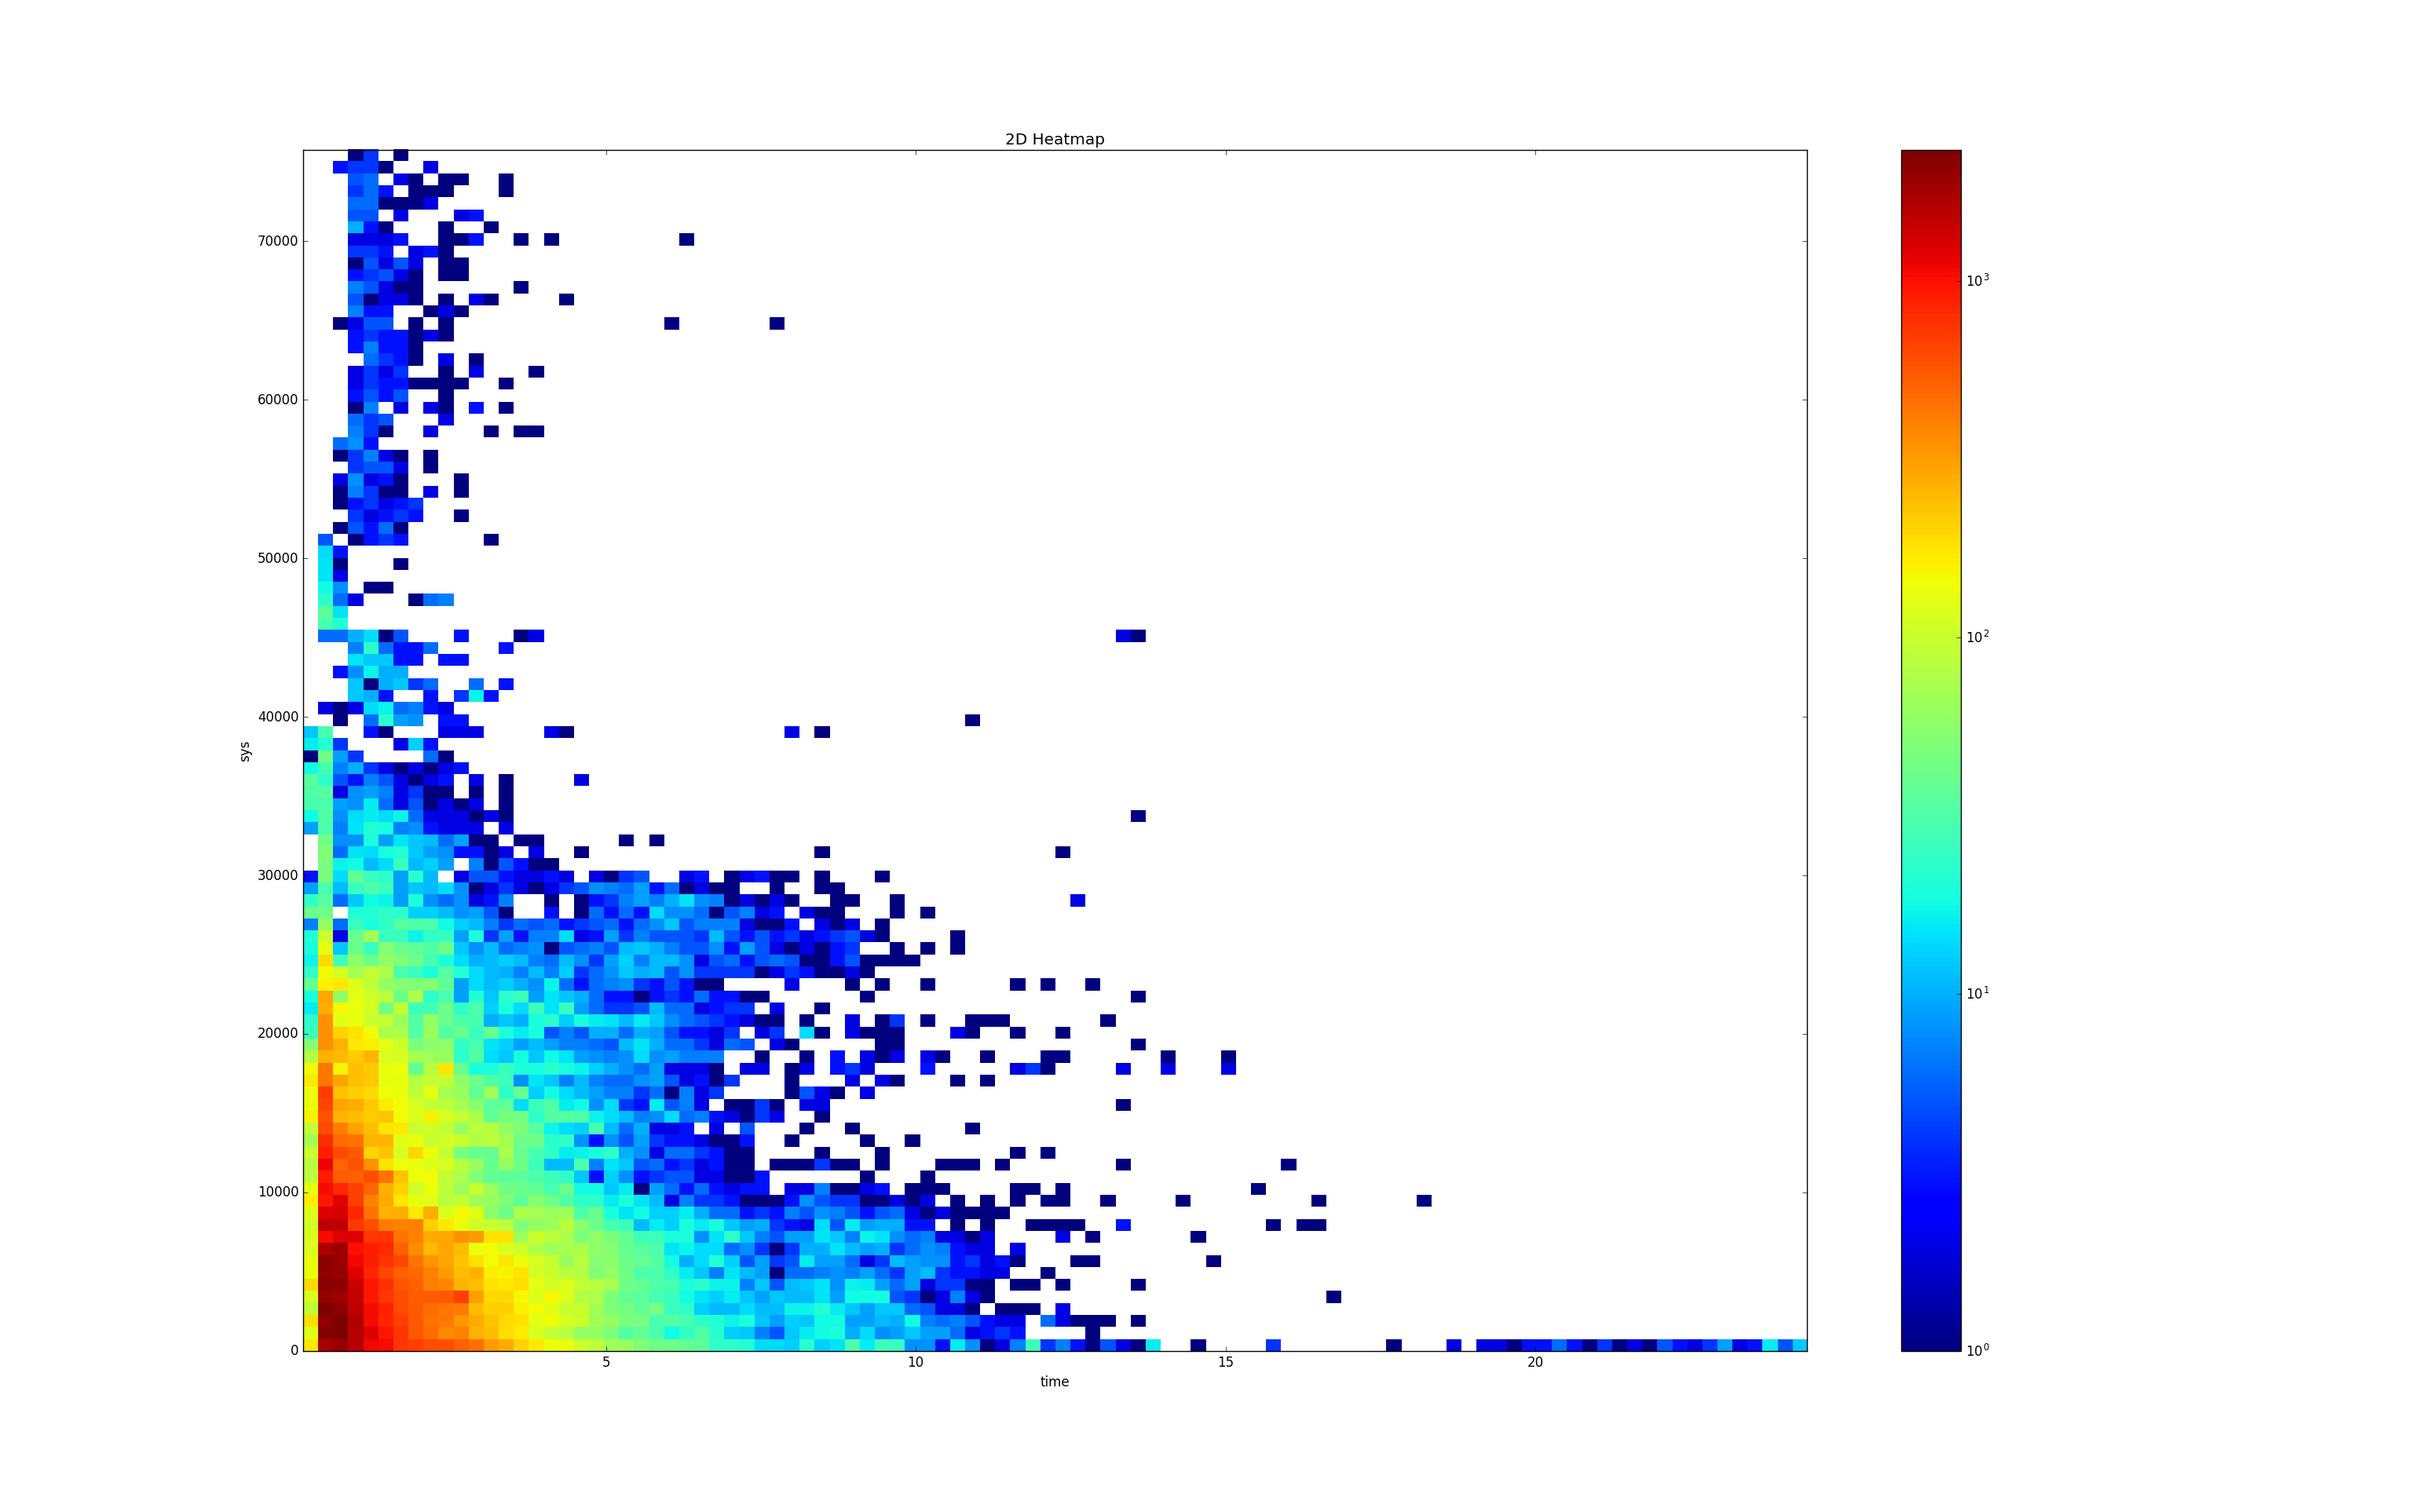
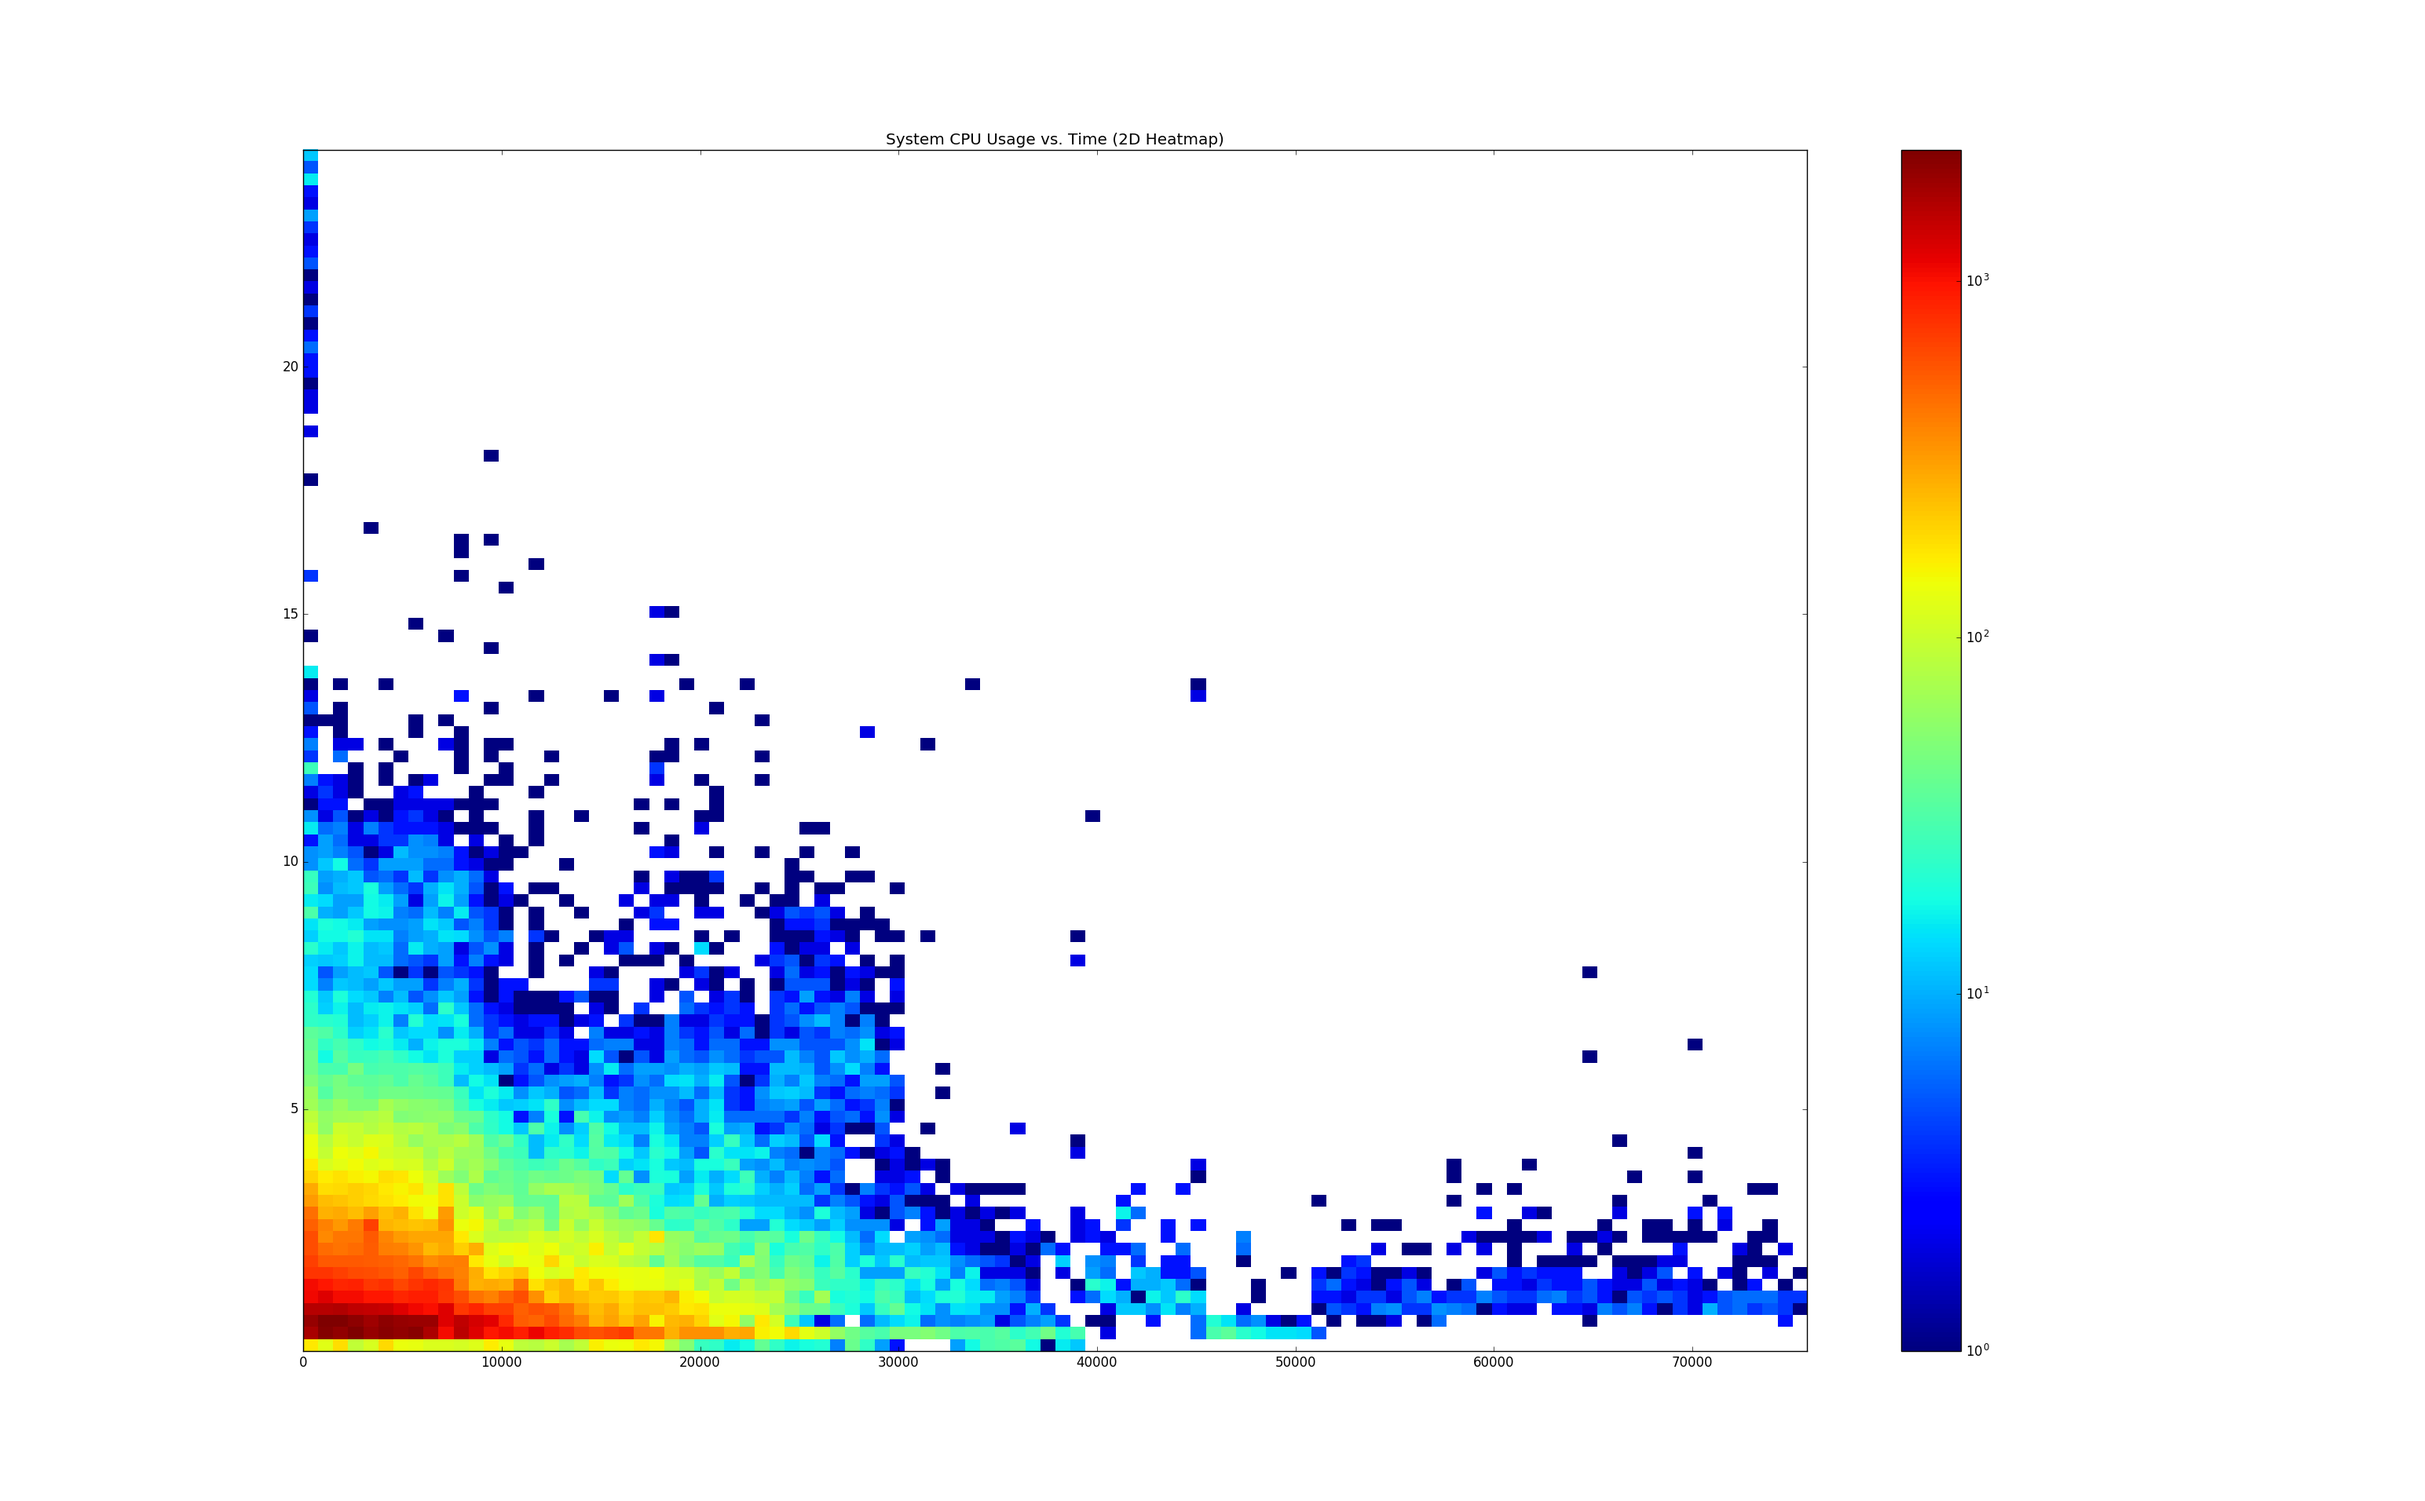
updated plotter to plot Profiles, updated plotter interface accordingly

Changed region(s): [[0.1244, 0.0926, 0.7461, 0.9257], [0.2487, 0.432, 0.3109, 0.4629], [0.4352, 0.6172, 0.4663, 0.648]]

diff --git a/PlotterInterface.py b/PlotterInterface.py
@@ -1,4 +1,3 @@
-#Other imports
 import LogParser as lp
 import Plotter as plotter
 
@@ -49,28 +48,38 @@ def write_path_memory(fpath, ftype):
     return
 
 def get_plot_param(param):
+    eToggle = None
+
     counter = 0
     for p in param:
         if "\"" in p:
             p = p.split("\"")[1]
         else:
-            if p == "Bins":
+            if p == "Errorbar":
                 try:
                     nextP = param[counter + 1]
                     if ")" in nextP:
                         nextP = nextP.split(")")[0]
-                    bins = int(nextP)
+                    eToggle = nextP.split("\"")[1]
+                    if eToggle == "on":
+                        eToggle = None
+                    elif eToggle == "off":
+                        eToggle = 0
+                    else:
+                        print("Error: \"Errorbar\" only takes argument \"on\" or \"off\"")
                     counter += 1
                 except IndexError:
-                    print("Error: expected argument after \"Bins\"")
+                    print("Error: expected argument after \"Errorbar\"")
                     return
 
-    return pltType, bins
+    return eToggle
 
 def print_help_info():
     print("\n*    *    *    *    *    *    *    *    *    *    *    *    *    *    *    *")
     print("Plotters:")
     print("    plot->2DHist(\"xkey\", \"ykey\")")
+    print("    plot->HeatProfile(\"xkey\", \"ykey\"")
+    print("    plot->Profile(\"xkey\", \"ykey\", \"Errorbar\", \"on/off\" (default on)")
     print("    plot->1DHist(\"xkey\")")
     print("Getters:")
     print("    get->keys:")
@@ -89,6 +98,8 @@ def plot_interface_intrp(funct, param, logObjPile):
     Custom functions:
         Plotters:
             plot->2DHist("xkey", "ykey")
+            plot->HeatProfile("xkey", "ykey")
+            plot->Profile("xkey", "ykey", "ErrorbarsDeclaration", "on/off" (default on))
             plot->1DHist("xkey")
 
         Getters:
@@ -104,18 +115,24 @@ def plot_interface_intrp(funct, param, logObjPile):
     if funct[0] == "plot":
         try:
             if funct[1] == "2DHist":
-                xdata = param[0].split("\"")[1]
-                ydata = param[1].split("\"")[1]
-                if xdata == "epoch":
-                    plotter.plot_keyvst_2DHist(logObjPile, ydata)
-                    return
-                else:
-                    plotter.plot_all_2DHist(logObjPile, xdata, ydata)
-                    return
-
+                x = param[0].split("\"")[1]
+                y = param[1].split("\"")[1]
+                plotter.plot_2DHist(logObjPile, xkey = x, ykey = y)
+                return
+            if funct[1] == "HeatProfile":
+                x = param[0].split("\"")[1]
+                y = param[1].split("\"")[1]
+                plotter.plot_Profile(logObjPile, xkey = x, ykey = y, xlabel = x, ylabel = ("Average " + y), eToggle = 0, hToggle = 0)
+                return
+            elif funct[1] == "Profile":
+                x = param[0].split("\"")[1]
+                y = param[1].split("\"")[1]
+                e = get_plot_param(param)
+                plotter.plot_Profile(logObjPile, xkey = x, ykey = y, xlabel = x, ylabel = ("Average " + y), eToggle = e)
+                return
             elif funct[1] == "1DHist":
-                xdata = param[0].split("\"")[1]
-                plotter.plot_all_1DHist(logObjPile, xdata)
+                x = param[0].split("\"")[1]
+                plotter.plot_1DHist(logObjPile, xkey = x)
                 return
         except IndexError:
             print("Error: too few arguments provided")
@@ -157,10 +174,9 @@ def custom_plot_interface(inpMark, logObjPile):
         
         if custPlot == ".q":
             return
-
         elif custPlot == "help":
             print_help_info()
-        
+
         else:
             try:
                 splitInp = custPlot.split("(")
@@ -178,8 +194,8 @@ def secondary_plot_interface(inpMark, logObjPile):
     print("\n*    *    *    *    *    *    *    *    *    *    *    *    *    *    *    *")
     print("Enter the letter of desired plot or \'custom\' for custom plot. Enter \'help\' for supported custom functions.\n")
     print("Premade Plots:")
-    plots = {"a":"User CPU Usage vs. Time (2D Heatmap)", "b":"System CPU Usage vs. Time (2D Heatmap)"}
-    orderedkeys = ["a","b"]
+    plots = {"a":"User CPU Usage vs. Time (2DHist)", "b":"System CPU Usage vs. Time (2DHist)", "c":"Idl CPU usage vs. Time (2DHist)", "d":"Average User CPU usage vs. Time (Profile)", "e":"Average System CPU Usage vs. Time (Profile)"}
+    orderedkeys = ["a","b","c", "d", "e"]
     for key in orderedkeys:
         print(key + ". " + plots[key])
     print("*    *    *    *    *    *    *    *    *    *    *    *    *    *    *    *\n")
@@ -196,9 +212,15 @@ def secondary_plot_interface(inpMark, logObjPile):
             return
         elif usrInp in plots.keys():
             if usrInp == "a":
-                plotter.plot_keyvst_Heat(logObjPile, "usr", plots["a"])
+                plotter.plot_2DHist(logObjPile, xkey = "epoch", ykey = "usr", title = plots["a"])
             elif usrInp == "b":
-                plotter.plot_keyvst_Heat(logObjPile, "sys", plots["b"])
+                plotter.plot_2DHist(logObjPile, xkey = "epoch", ykey = "sys", title = plots["b"])
+            elif usrInp == "c":
+                plotter.plot_2DHist(logObjPile, xkey = "epoch", ykey = "idl", title = plots["c"])
+            elif usrInp == "d":
+                plotter.plot_Profile(logObjPile, xkey = "epoch", ykey = "usr", title = plots["d"])
+            elif usrInp == "e":
+                plotter.plot_Profile(logObjPile, xkey = "epoch", ykey = "sys", title = plots["e"])
 
         else:
             print("Error: invalid input")

diff --git a/Plotter.py b/Plotter.py
@@ -61,7 +61,7 @@ def get_std_dev(data):
     counter = 0
     sdLst = []
     for num in data:
-        stdDev.append((float(num) - float(mean))^2)
+        sdLst.append((float(num) - float(mean))*(float(num) - float(mean)))
         counter += 1
 
     sdSum = 0
@@ -93,25 +93,18 @@ def get_data_1D(logObjPile, key):
             pass
 
     return lst
-    
 
 def get_data_2D(logObjPile, xkey, ykey):
     xLst = []
     yLst = []
-    for log in logObjPile:
-        try:
-            if xkey == "epoch":
-                xLst = get_zeroed_times(logObjPile)
-            else:
-                for pnt in logObjPile[log][xkey]:
-                    xLst.append(float(pnt))
-            if ykey == "epoch":
-                yLst = get_zeroed_times(logObjPile)
-            else:
-                for pnt in logObjPile[log][ykey]:
-                    yLst.append(float(pnt))
-        except (KeyError, IndexError) as error:
-            pass
+    if xkey == "epoch":
+        xLst = get_zeroed_times(logObjPile)
+    else:
+        xLst = get_data_1D(logObjPile, xkey)
+    if ykey == "epoch":
+        yLst = get_zeroed_times(logObjPile)
+    else:
+        yLst = get_data_1D(logObjPile, ykey)
 
     return xLst, yLst
 
@@ -147,38 +140,64 @@ def plot_2DHist(logObjPile, **kwargs):
 def plot_Profile(logObjPile, **kwargs):
     #Get data
     x, y = get_data_2D(logObjPile, kwargs.get("xkey", ""), kwargs.get("ykey", ""))
+    eToggle = kwargs.get("eToggle", 1)
+    hToggle = kwargs.get("hToggle", 1)
 
-    #Builds graph bins: each x value corresponds to some list of y values to be averaged
+    #Build graph bins: each x value corresponds to some list of y values to be averaged
     xbins = {}
     for num in x:
         xbins[num] = []
 
-    #Pile x values into bins
+    #Pile x-values into bins
     counter = 0
     for num in y:
         xbins[x[counter]].append(num)
+        counter += 1
  
-    #Builds yerrDict bins, gets mean of y-values in xbins
-    yerrDict = {}
-    for xb in xbins:
-        yerr[xb] = get_std_dev(xbins[xb])
-        xbins[xb] = get_mean(xbins[xb])
+    if eToggle == 1 or eToggle == None:
+        #Builds yerrDict bins, get mean of y-values in xbins
+        yerrDict = {}
+        for xb in xbins:
+            yerrDict[xb] = get_std_dev(xbins[xb])
+            xbins[xb] = get_mean(xbins[xb])
 
-    #Build final data sets
-    x = []
-    y = []
-    yerr = []
-    for xb in xbins:
-        y.append(xbins[xb])
-        x.append(xb)
-        yerr.append(yerrDict[xb])
+        #Build final data sets
+        x = []
+        y = []
+        yerr = []
+        for xb in xbins:
+            y.append(xbins[xb])
+            x.append(xb)
+            yerr.append(yerrDict[xb])
+        plt.errorbar(x, y, yerr, fmt = ' ')
 
-    plt.errorbar(x, y, yerr)
+    else:
+        #get mean of y-values in xbins:
+        for xb in xbins:
+            xbins[xb] = get_mean(xbins[xb])
+
+        #build final data sets
+        x = []
+        y = []
+        for xb in xbins:
+            y.append(xbins[xb])
+            x.append(xb)
+        if hToggle == 1 or hToggle == None:
+            plt.plot(x, y, 'b.')
+        else:
+            #Import Colors
+            from matplotlib.colors import LogNorm    
+            #Create Heatmap
+            plt.hist2d(x, y, bins = 100, norm = LogNorm())
+            #Plot Heatmap
+            plt.colorbar()
+
     plt.title(kwargs.get("title", "Profile"))
     plt.xlabel(kwargs.get("xlabel",""))
     plt.ylabel(kwargs.get("ylabel",""))
 
     plt.show()
+
     return
     
 
@@ -192,5 +211,5 @@ def plot_single_1DHist(logname, key):
 if __name__ == "__main__":
     fPile = get_log_files("/home/jguiang/ProjectMetis/log_files", ".out")
     logObjPile = parse_log_files(fPile)
-    
-    plot_Profile(logObjPile, xkey = "epoch", ykey = "usr")
+ 
+    plot_Profile(logObjPile, xkey = "epoch", ykey = "usr", eToggle = 0, hToggle = 0)
